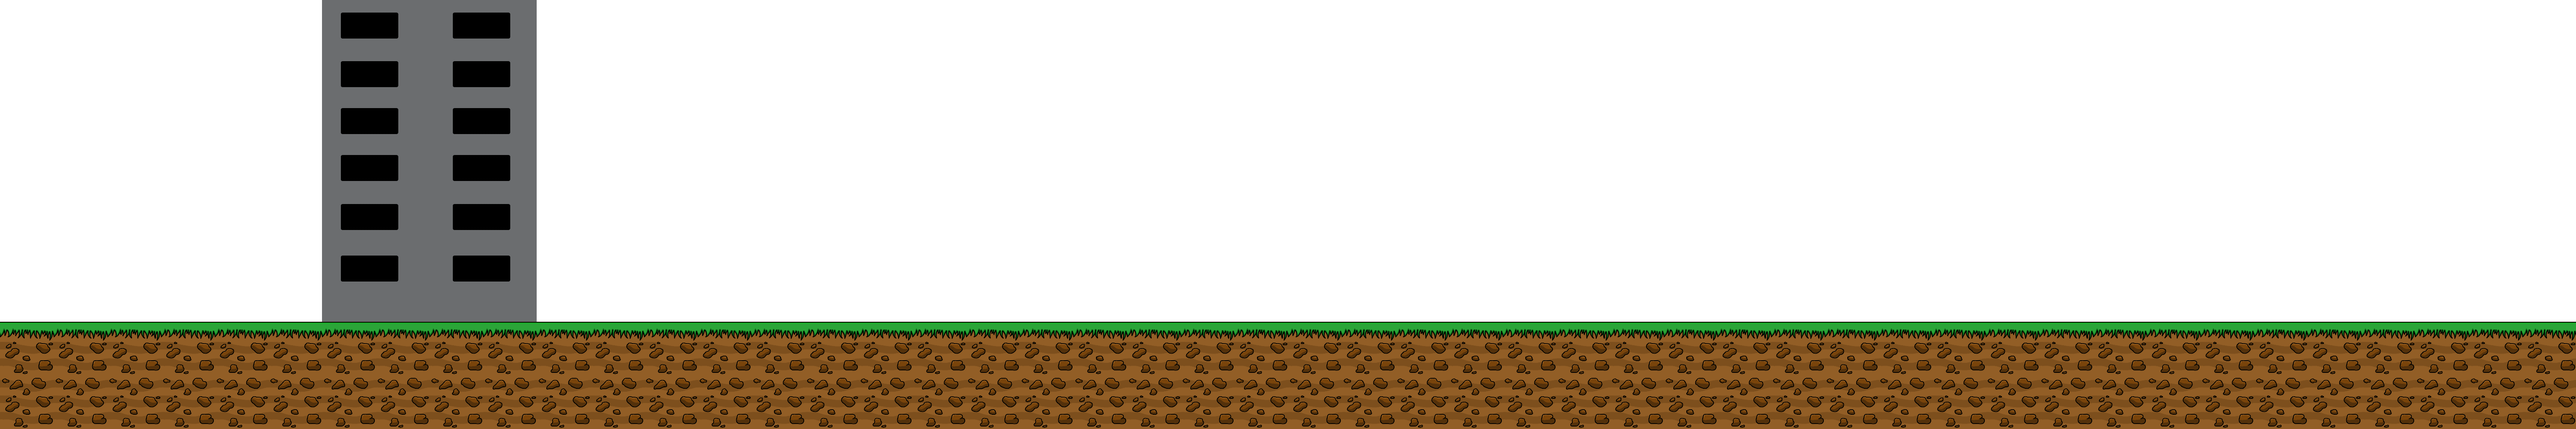
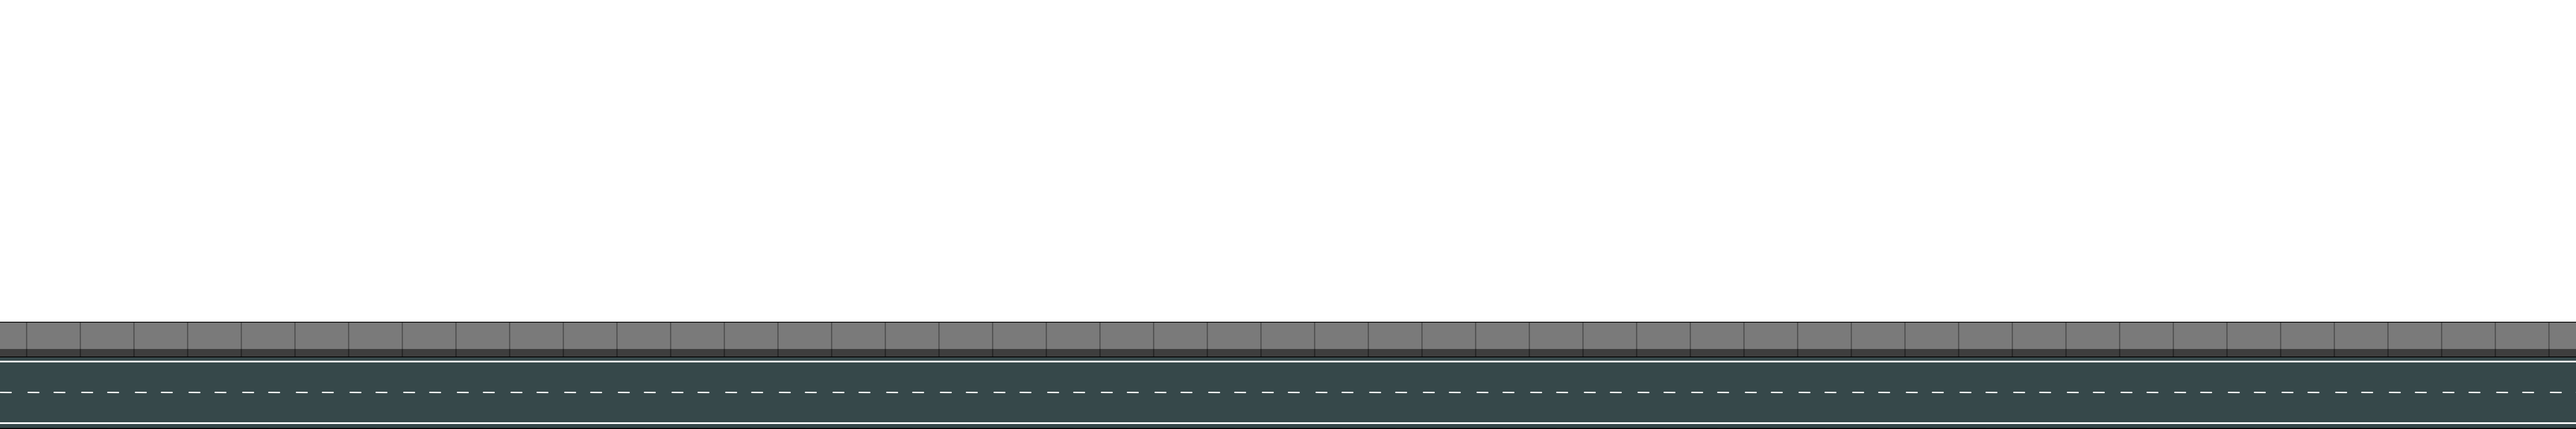
Change ground tiles for sidewalk

diff --git a/gameManager.js b/gameManager.js
@@ -144,7 +144,7 @@ export class GameManager {
         //     spawnY = this.k.mapOffsetY + (originalY * this.k.mapScale);
         // }
 
-        const enemy = new GroundEnemy(this.k, originalX, originalY + 10);
+        const enemy = new GroundEnemy(this.k, originalX, originalY + 40);
         this.enemies.push(enemy);
 
         if (this.k.mapScale && this.k.mapOffsetY !== undefined) {
@@ -165,7 +165,7 @@ export class GameManager {
         const originalY = this.mapHeight - (this.tileHeight * 2);
 
         // Always create with original coordinates
-        const enemy = new GroundEnemy(this.k, originalX, originalY + 10);
+        const enemy = new GroundEnemy(this.k, originalX, originalY + 40);
         this.enemies.push(enemy);
 
         // Let updateScale handle the scaling if needed

diff --git a/main.js b/main.js
@@ -12,7 +12,7 @@ async function main() {
 
     k.scene("level", () => {
         level(k, levelDataJson);
-        let playerPosition = levelDataJson.layers[2].objects[0];
+        let playerPosition = levelDataJson.layers[3].objects[0];
         const player = new Player(k, playerPosition.x, playerPosition.y, 400, 650, () => {
             gameState.player = player;
             uiManager.setUpCollisionsUI();
